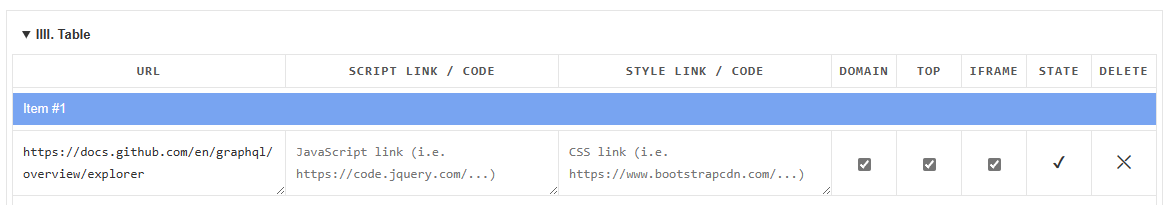
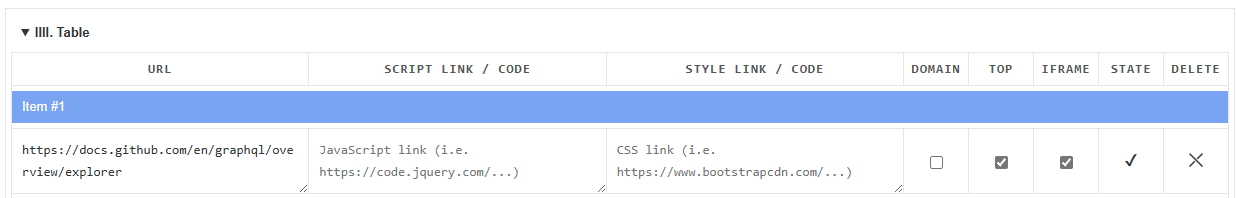
Note that DOMAIN needs unchecking

diff --git a/_posts/2024-04-11-gh-graphql.md b/_posts/2024-04-11-gh-graphql.md
@@ -69,7 +69,8 @@ iframe {
 }
 ```
 
-After adding the script, ensure the `IFRAME` option is checked:
+After adding the script, ensure the `IFRAME` option is checked (so it applies to the graphiql iframe) 
+and uncheck the `DOMAIN` option (so it applies to the specific URL) as follows:
 
 ![Checking IFRAME option for custom CSS](/img/graphql-customcss.png)
 
